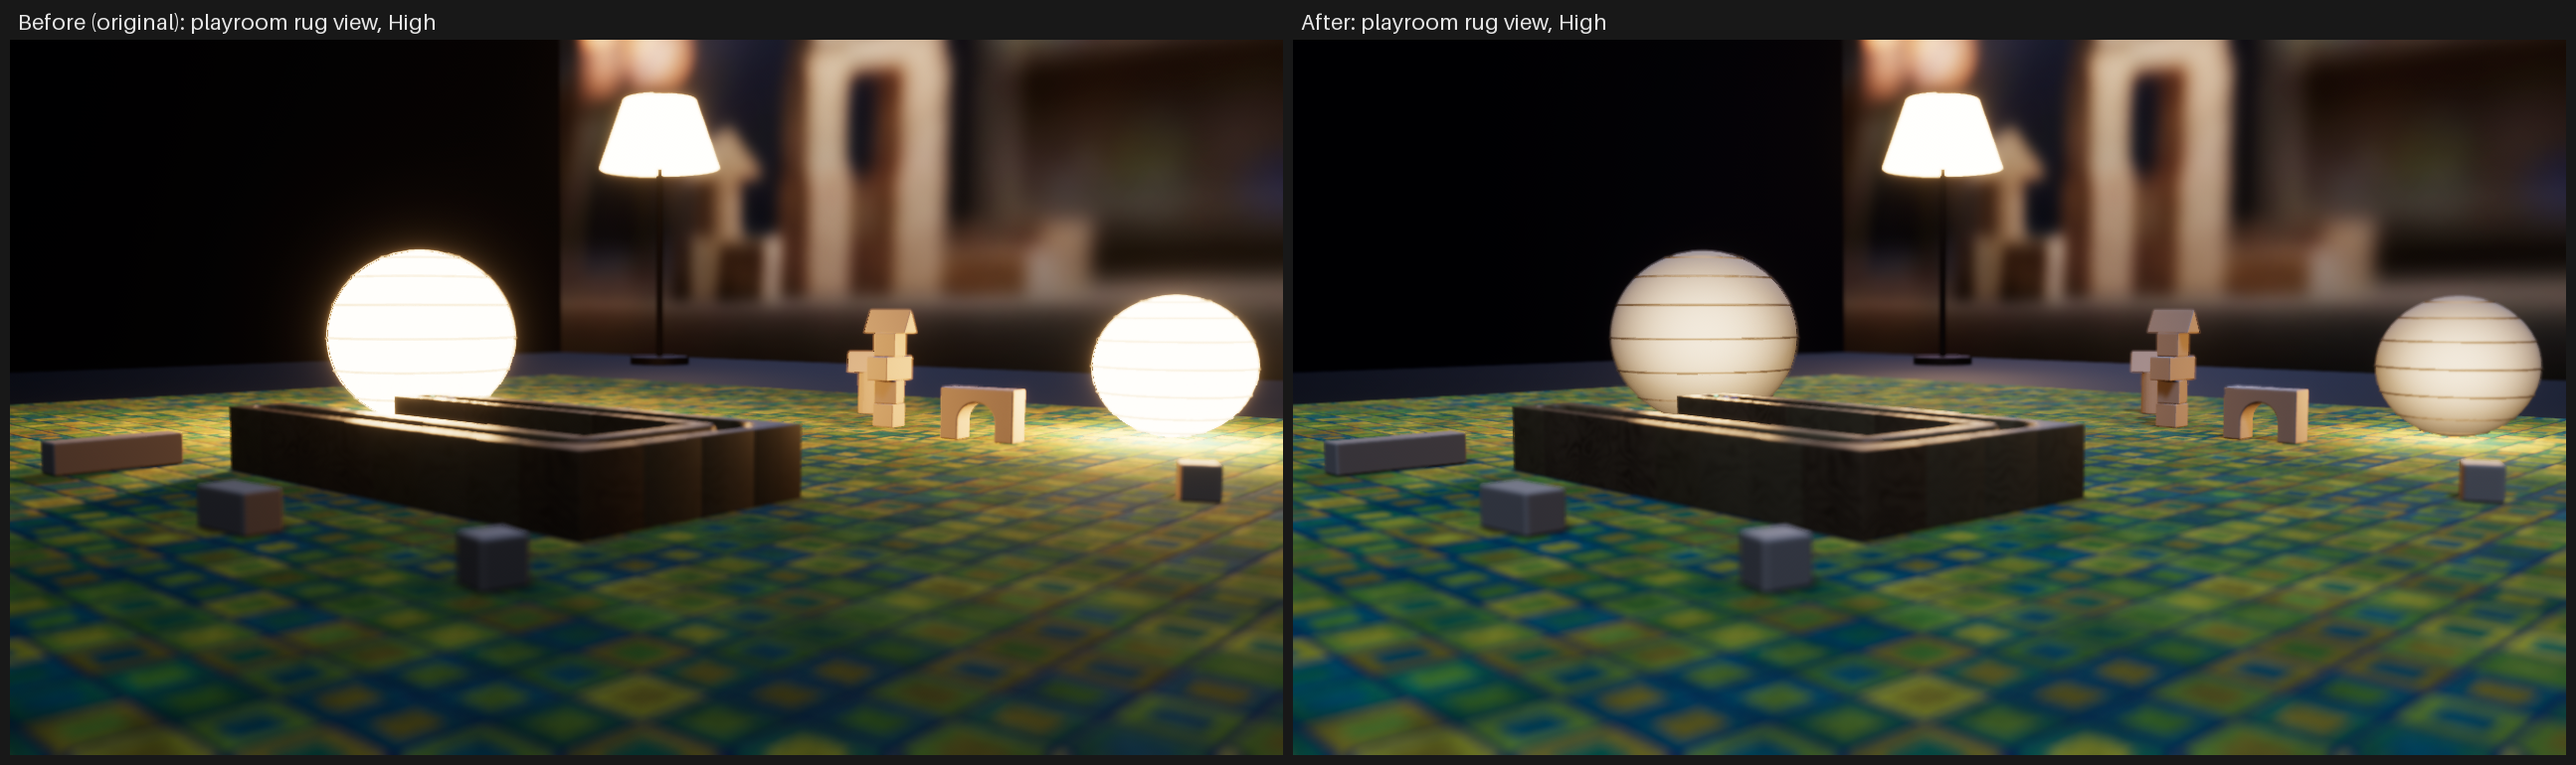
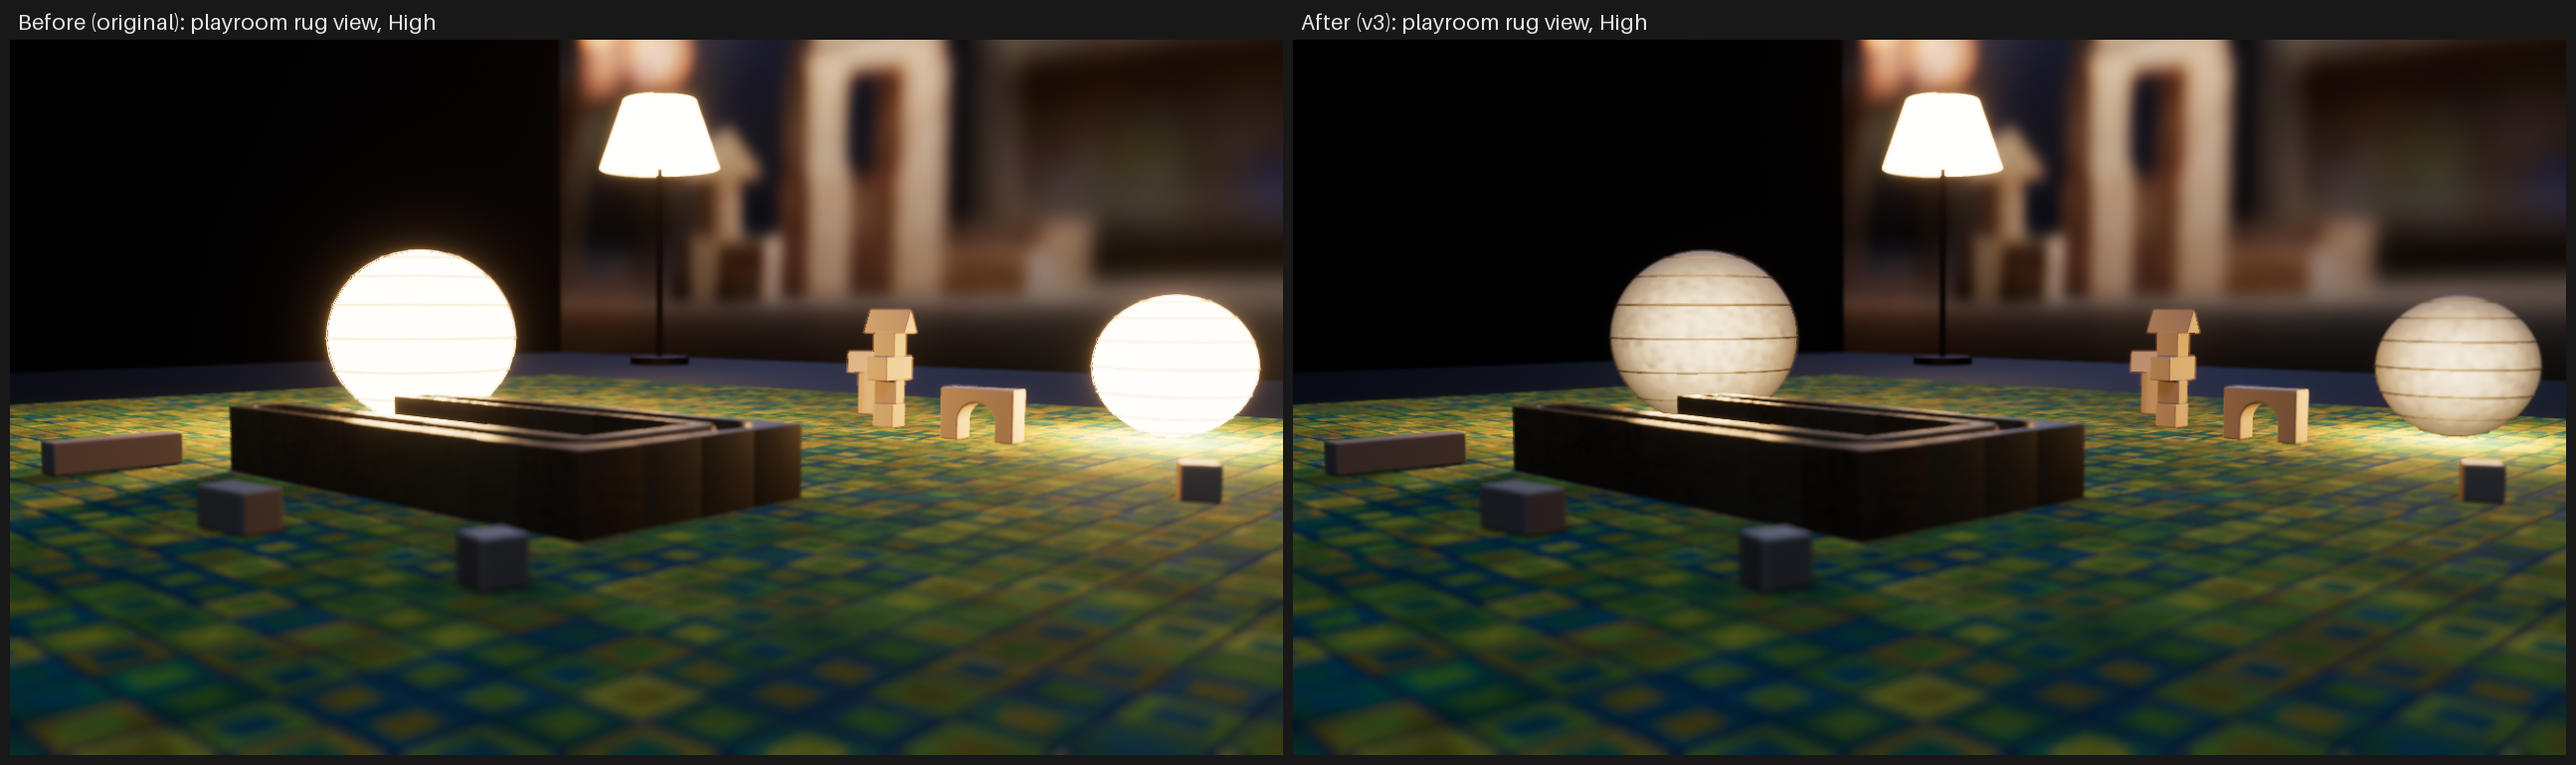
Docs: lantern v3 before/after (reference, original, v3), wide rug view and showcase reference, with texture and level numbers

Changed region(s): [[0.4942, 0.4052, 1.0, 0.9974], [0.5251, 0.0, 0.6486, 0.0623], [0.6486, 0.3117, 0.6795, 0.3429]]

diff --git a/docs/design/lantern/README.md b/docs/design/lantern/README.md
@@ -5,61 +5,67 @@ Paul's note on the playroom render (2026-11-10): the sphere lamps are over brigh
 off-white, the ribs show across the whole sphere, the centre is a little brighter than the edges and
 the pool on the rug is modest. Ours was a clipped white disc with washed-out ribs and a bloom halo.
 
-Two passes, both on 2026-11-10:
+There were three passes, all on 2026-11-10:
 
 - **v1** took the shade out of clipping and added an N·V falloff.
-- **v2** followed Paul's review of v1. It dims the pool on the rug, with the room's other lights
-  holding the overall level, and makes the shade read as paper lit from inside.
+- **v2** made the paper read as lit from inside and rebalanced the room's lights.
+- **v3** is Paul's pick: the v2 paper with the original room lighting and a milder 0.5 × lantern
+  light. It also gives the paper a rice-paper texture.
 
 Images:
 
-- `lantern-before-after.png`: reference, original before, and v2 after, each scaled to the same
-  lantern diameter (308 px). Ours is the small lantern in the playroom `blocks` view.
-- `lantern-wide-before-after.png`: the playroom `rug` view, original before and v2 after.
+- `lantern-before-after.png`: reference, original and v3, each scaled to the same lantern diameter
+  (308 px). Ours is the small lantern in the playroom `blocks` view.
+- `lantern-wide-before-after.png`: the playroom `rug` view, original and v3.
+- `showcase-before-after.png`: the `make shots-test` showcase High reference, main's next to v3's.
 
 All shots are native, High quality:
 `parble --scenario playroom --view blocks|rug --quality high --screenshot … --screenshot-after 5 --exit-after 6`.
 
-## Change
+## Change (v3 against main)
 
-All of it is in `crates/parble-render/src/playroom.rs`, `lantern.wesl` and `palette.rs`. Bloom is
-not touched: `BLOOM_INTENSITY` is 0.08 on every tier.
+The changes are in `crates/parble-render/src/playroom.rs`, `lantern.wesl` and `palette.rs`. Bloom
+is not touched: `BLOOM_INTENSITY` is 0.08 on every tier. The moon, rim, lamp, ambient and probe are
+at main's values.
 
-| What | Original | v1 | v2 |
-|---|---|---|---|
-| Paper emissive (`LANTERN_PAPER_NITS`) | 30 × warm amber | 2.2 × `LANTERN_PAPER` | 1.2 × `LANTERN_PAPER` |
-| Rib emissive (`LANTERN_RIB_NITS`) | 5 | 0.8 | 0.45 |
-| Falloff `mix(edge, 1, (N·V)^power)` | none | edge 0, power 2 | edge 0.15, power 1 |
-| Inner glow `hot · (N·V)^hot_power` | none | none | hot 1.6, power 5 |
-| Paper albedo (linear) | 0.89, 0.79, 0.64 | same | 0.312, 0.276, 0.223 (× 0.35) |
-| Rib albedo (linear) | 0.21, 0.15, 0.09 | same | 0.086, 0.059, 0.036 (× 0.4) |
-| Shade receives shadows | yes | yes | no (`NotShadowReceiver`) |
-| Lantern point lights (`LANTERN_LIGHT_SCALE`) | 26,000 / 14,000 lm | same | × 0.25 (6,500 / 3,500 lm) |
-| Moon (`MOON_LUX_SCALE`) | 1,200 lux | same | × 2.2 (2,640 lux) |
-| Rim (`RIM_LUX`) | 1,500 lux | same | 1,800 lux |
-| Lamp (`LAMP_LUMENS_SCALE`) | 15,000 lm | same | × 3 (45,000 lm) |
-| Ambient (`GlobalAmbientLight`) | 2.0 | same | 6.0 |
-| Probe (`ENV_INTENSITY`) | 15 | same | 22.5 |
+| What | Main | v3 |
+|---|---|---|
+| Paper emissive (`LANTERN_PAPER_NITS`) | 30 × warm amber | 1.2 × `LANTERN_PAPER` (amber a quarter of the way to white) |
+| Rib emissive (`LANTERN_RIB_NITS`) | 5 | 0.45 |
+| Falloff `mix(edge, 1, (N·V)^power)` | none | edge 0.15, power 1 |
+| Inner glow `hot · (N·V)^hot_power` | none | hot 1.6, power 5 |
+| Paper texture on the glow | none | grain 0.8 at 120 cycles/m (four octaves), fibres 0.3, puckers 0.5 |
+| Paper albedo (linear) | 0.89, 0.79, 0.64 | 0.312, 0.276, 0.223 |
+| Rib albedo (linear) | 0.21, 0.15, 0.09 | 0.086, 0.059, 0.036 |
+| Shade receives shadows | yes | no (`NotShadowReceiver`) |
+| Lantern lights (`LANTERN_LIGHT_SCALE`) | 26,000 / 14,000 lm | × 0.5 (13,000 / 7,000 lm) |
 
-`LANTERN_PAPER` is warm amber a quarter of the way to white. The lumens in
-`assets/playroom/layout.json` stay as they were, because `blender/playroom/probe.py` bakes the
-lantern and lamp emission from them. The scales are applied in code, so the baked probe is not
-stale relative to the layout.
+The lumens in `assets/playroom/layout.json` are unchanged, because `blender/playroom/probe.py` bakes
+the probe from them. The 0.5 × scale is applied in code.
 
-### The dark band near the base (v1)
+### Paper texture
 
-I checked three candidate causes:
+`lantern.wesl` multiplies the transmitted glow by `1 + texture`, and the albedo by
+`1 + texture / 2`. The texture has three parts:
 
-- **The falloff.** It is radial, so it cannot make a top-to-bottom band. With the falloff off, the
-  low and mid bands differ by only 6 luminance.
-- **The inner point light.** It does not light the shade: the light sits behind the outer surface.
-  With the paper albedo at zero, the low band does not change (166).
-- **Room light and shadows.** These are the cause. The moon and lamp lit the top half of the
-  near-white albedo paper (the up band fell from 199 to 177 with the albedo at zero). The lower
-  half sat in cast shadow: with `NotShadowReceiver`, the low band rose from 166 to 181.
+- **Grain:** four octaves of world-space value noise, starting at 120 cycles per metre (about
+  8 mm).
+- **Fibres:** noise stretched 15:1 along two crossing directions, kept only where it peaks.
+- **Puckers:** slow wrinkles across each band between the ribs, strongest midway between two ribs.
 
-v2 gives the paper a low albedo and stops it receiving shadows. The low band is now 14 below the
-up band, down from 33.
+The noise is deterministic, and the lanterns are static, so it is the same on every frame and
+every run. Each octave fades out as its period nears 2 to 4 pixels (`fwidth`). Fine detail
+therefore drops away on a distant lantern or at Low, where there is no AA, instead of turning into
+speckle. On the close shot the texture measures 0.016 at High and 0.018 at Low.
+
+I did not measure shimmer with a moving camera. The fade is what guards against it.
+
+### The dark band near the base (found in v2)
+
+The falloff is radial, so it cannot make a top-to-bottom band. The inner light sits behind the outer
+surface, so it does not light it. The cause was room light falling on the top half of the
+near-white paper, plus a cast shadow over the bottom half. The fix is the low albedo and no shadows
+on the shade.
 
 ## Measurements
 
@@ -67,75 +73,60 @@ Measured with Pillow on 8-bit sRGB:
 
 - The shade is an ellipse mask at 0.92 of the lantern radius. The centre is d ≤ 0.3 radii and the
   edge is 0.75 to 0.92 radii.
-- The up, mid and low bands are the central 0.8-radius-wide column at 0.55 to 0.85 radii above
-  centre, ±0.15 radii, and 0.55 to 0.85 radii below centre.
-- Rib contrast is the mean dip of the rib rows below the paper either side, in the central band.
-- Bloom reach is the distance past the silhouette, sideways, until luminance is within 5 of the
-  background.
-- The halo is the luminance of the ring 1.02 to 1.25 radii above the lantern, minus the ring at
-  1.6 to 1.9 radii.
+- The up, mid and low bands are the central column at 0.55 to 0.85 radii above centre, ±0.15
+  radii, and 0.55 to 0.85 radii below centre.
 - The pool is the rug from 1.0 to 1.9 radii below the lantern centre.
+- **Texture** is the paper's local luminance variation, measured at the reference's scale (160 px
+  diameter). The luminance is high-pass filtered (minus a Gaussian blur at σ 3 px) and divided by
+  that blur. The figure is the robust standard deviation (MAD × 1.4826) over the central shade
+  (d ≤ 0.7), so the thin ribs do not dominate.
 
-### Close shot (`blocks` view)
+### Close shot (`blocks` view, High)
 
-| Metric | Reference | Original | v1 | v2 |
+| Metric | Reference | Original | v2 | v3 |
 |---|---|---|---|---|
 | Clipped shade pixels (all channels ≥ 250) | 0 % | 87.4 % | 0 % | 0 % |
-| Shade mean luminance | 182 | 253 | 195 | 198 |
-| Shade mean RGB | 201, 180, 149 | 255, 253, 249 | 212, 193, 166 | 214, 196, 171 |
-| Centre luminance | 218 | 253 | 224 | 228 |
-| Edge luminance | 155 | 253 | 165 | 172 |
-| Centre-to-edge ratio | 1.41 | 1.00 | 1.36 | 1.33 |
-| Up / mid / low band | n/a | 253 / 253 / 253 | 199 / 221 / 166 | 196 / 226 / 182 |
-| Rib contrast | 0.10 | 0.05 | 0.26 | 0.23 |
-| Bloom reach past the silhouette | 0.17 radii | 0.46 radii | 0.05 radii | about 0.05 radii |
+| Shade mean luminance | 182 | 253 | 198 | 197 |
+| Shade mean RGB | 201, 180, 149 | 255, 253, 249 | 214, 196, 171 | 215, 195, 167 |
+| Centre / edge (ratio) | 218 / 155 (1.41) | 253 / 253 (1.00) | 228 / 172 (1.33) | 227 / 170 (1.34) |
+| Up / mid / low band | n/a | 253 / 253 / 253 | 196 / 226 / 182 | 193 / 224 / 182 |
+| Rib contrast | 0.10 | 0.05 | 0.23 | 0.21 |
+| Paper texture | 0.017 | 0.001 | 0.006 | 0.016 |
 | Halo above the lantern | 12 | 28 | 0 | 0 |
-| Pool on the rug under the lantern | 43 | 180 | 179 | 130 |
-| Rug away from the lantern (bottom left) | n/a | 105 | 105 | 91 |
-| Arch block | n/a | 145 | 144 | 95 |
-| Block tower | n/a | 151 | 151 | 101 |
-| Whole frame | n/a | 104.2 | 96.4 | 80.6 |
+| Pool on the rug under the lantern | 43 | 180 | 130 | 147 |
+| Rug away from the lantern (bottom left) | n/a | 105 | 91 | 81 |
+| Arch / tower blocks | n/a | 145 / 151 | 95 / 101 | 107 / 117 |
+| Whole frame | n/a | 104.2 | 80.6 | 82.4 |
 
-### Wide shot (`rug` view)
+### Wide shot (`rug` view, High)
 
-| Metric | Original | v1 | v2 |
+| Metric | Original | v2 | v3 |
 |---|---|---|---|
-| Whole frame mean | 61.8 | 56.3 | 62.7 |
-| Rug (rows 430 and below) | 51.5 | 50.3 | 67.2 |
-| Toy blocks (tower and arch) | 103.6 | 102.4 | 77.3 |
-| Pool under the big lantern | 90.4 | 75.7 | 67.8 |
-| Pool under the right lantern | 197.5 | 196.1 | 156.5 |
+| Whole frame mean | 61.8 | 62.7 | 52.7 |
+| Rug (rows 430 and below) | 51.5 | 67.2 | 45.8 |
+| Toy blocks (tower and arch) | 103.6 | 77.3 | 82.3 |
+| Pool under the big lantern | 90.4 | 67.8 | 67.3 |
+| Pool under the right lantern | 197.5 | 156.5 | 170.9 |
 
-## Trade-offs
+With no fill boost, v3 is darker than the original wherever the lanterns' light reached:
 
-**The pool cannot reach 43 while the room holds its level.** With the lantern lights off entirely,
-the floor under the small lantern is still 46: that is the room's other light. Any fill that holds
-the room's level raises the floor under the lantern too.
+- The wide-shot mean is 15 % lower.
+- The rug is 11 % lower.
+- The blocks are 21 % lower.
 
-At 0.25 × the lumens the pool falls from 180 to 130. Relative to the rug around it, that is 1.43 ×,
-down from 1.71 ×. I compared 0.1 to 0.4 ×, each with fill compensation.
-
-The fill evens the scene out rather than restoring every region:
-
-- The wide-shot mean holds: 62.7 against 61.8 originally.
-- The open rug in the wide shot gets brighter, 67 against 51.
-- The blocks, which the lanterns lit up close, get darker: 77 against 104 in the wide shot, and 95
-  against 145 for the arch in the close shot.
-- The moon is pale blue, so the room reads a little cooler than before.
-
-The reference's rug is dark and ours is a bright yellow-green tile, so the absolute floor values do
-not compare directly.
+The pool falls from 180 to 147. The reference's 43 is out of reach with the room's own light: with
+the lanterns off, the floor there is still 46. The reference's rug is also dark, where ours is a
+bright tile.
 
 ## Moved references
 
-The `showcase` scene stands on the playroom rug under these lights, so its `make shots-test`
-references moved. Against the old references, v2 diffed 0.0876 to 0.0893 across the four tiers
-(bar 0.03), and v1 had diffed 0.0071 to 0.0077.
+The `showcase` scene stands on the playroom rug, so it moved. Against main's
+`docs/shots/p1-t8-showcase-*.png`, v3 diffed 0.0630 (Low), 0.0612 (Medium), 0.0610 (High) and 0.0611
+(Ultra), against the 0.03 bar.
 
-I regenerated `docs/shots/p1-t8-showcase-{low,medium,high,ultra}.png` with
-`python3 scripts/shots/p1t8.py --update showcase` (the script's documented update path). Against
-the new references the diffs are 0.0011 to 0.0015. The framing is the same; the lantern, its pool
-and the light on the track changed.
+I regenerated the four references with `python3 scripts/shots/p1t8.py --update showcase` (the
+script's documented update path). `showcase-before-after.png` shows main's High reference next to
+v3's. The framing and track are the same; the lantern shade and the light around it changed.
 
 Nothing else moved:
 
@@ -148,4 +139,4 @@ Nothing else moved:
 - **Rib count.** The reference has about 10 rib lines and our shade has 7. The geometry is
   unchanged.
 - **The floor lamp's conical shade** (emissive 40) still clips in the rug view. It is not a sphere
-  lamp. Its light was raised 3 × as fill.
+  lamp.
